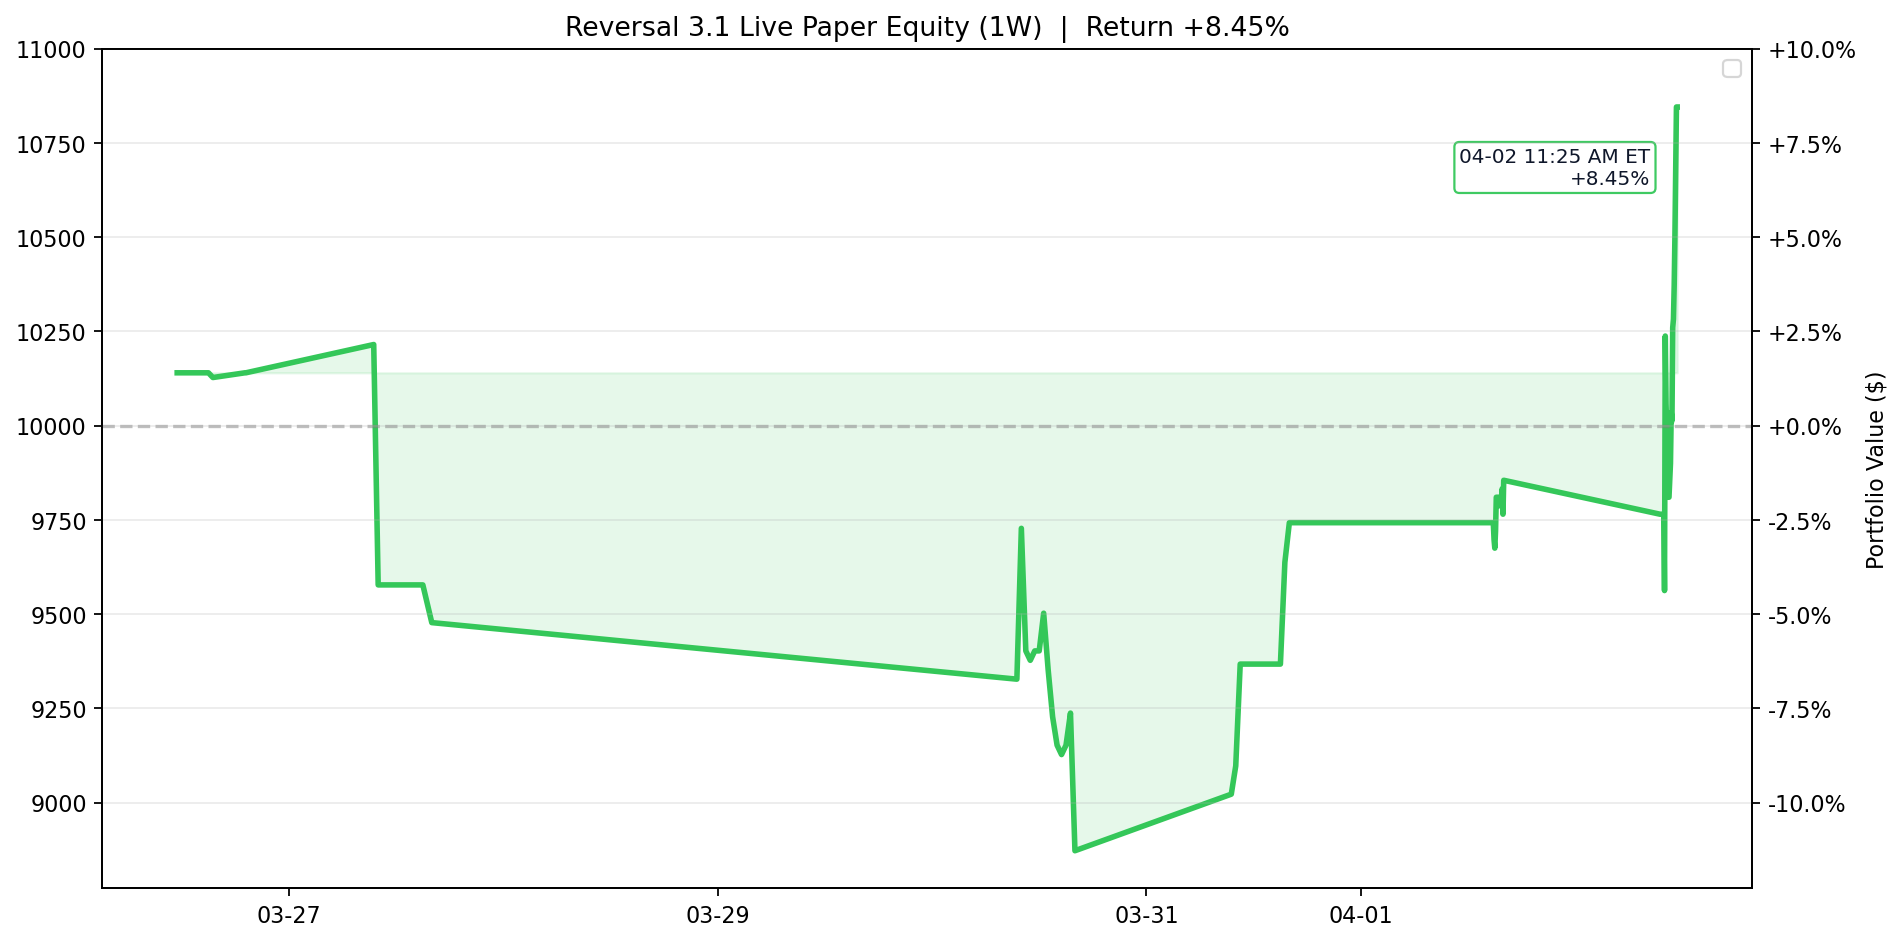
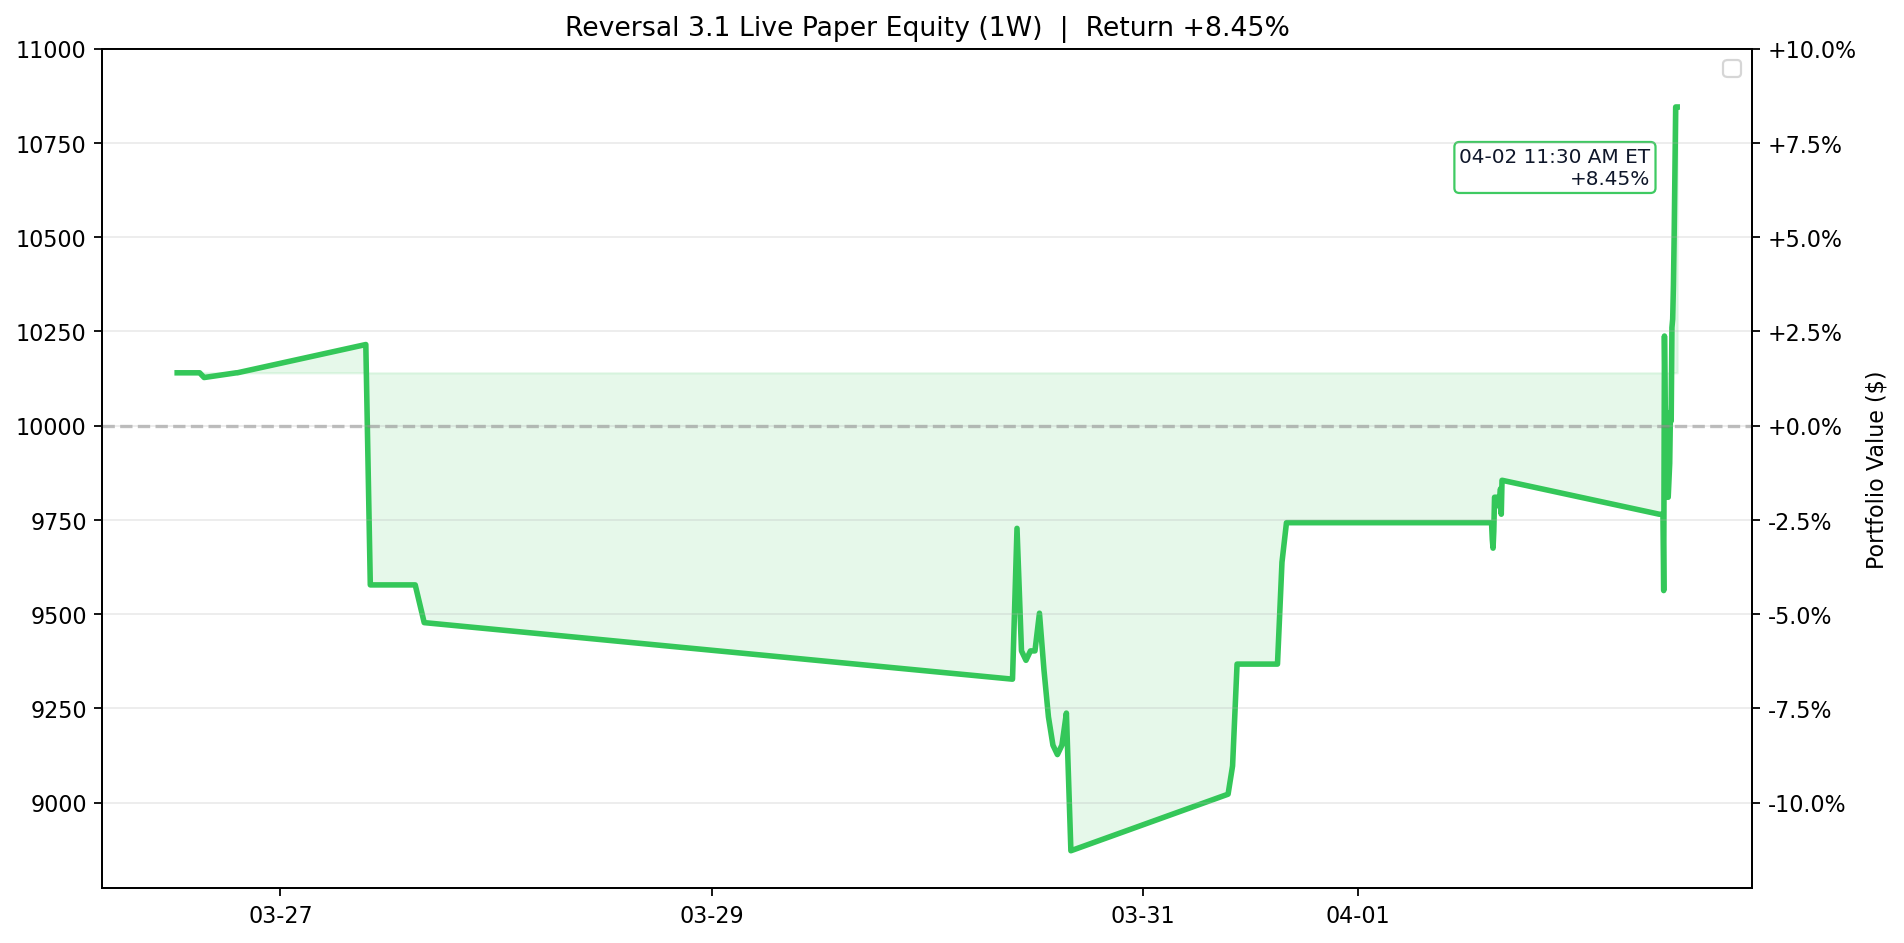
Update Reversal 3.1 live paper test 2026-04-02 11:30 ET

diff --git a/results/reversal_3_1_live/README.md b/results/reversal_3_1_live/README.md
@@ -1,6 +1,6 @@
 # Reversal 3.1 Live Paper Test
 
-Last updated (ET): `2026-04-02 11:25:05 EDT`
+Last updated (ET): `2026-04-02 11:30:05 EDT`
 Last processed slot: `manage_1130`
 
 ## Active Configuration
@@ -40,24 +40,25 @@ ticker     contract_symbol entry_trade_date_et exit_trade_date_et  entry_option_
 
 ```text
 ticker  success_rate_%  matched_signals  current_drop_%  target_rebound_$  target_price  rolling_sigma_20d_%  call_candidate
-   WDC           97.50               40            0.55              1.14        297.24                91.06            True
-  MPWR           91.67               36            0.88              6.92       1116.55                56.57            True
-  GILD           90.62               32            0.53              0.52        140.08                21.47            True
-  CDNS           89.74               39            1.06              2.09        279.30                26.25            True
-   MAR           89.74               39            0.55              1.30        332.90                28.45            True
-  KLAC           86.84               38            0.62              6.63       1517.00                56.48            True
-  MCHP           85.29               34            0.98              0.45         65.19                45.66            True
-  SOXL           85.29               34            0.80              0.29         52.13               138.72            True
-  VRTX           84.62               26            1.40              4.40        445.38                39.75            True
-  AMAT           84.38               32            1.15              2.85        352.58                59.65            True
- GOOGL           84.21               38            0.64              1.34        296.82                35.66            True
-  TMUS           84.00               25            0.78              1.12        203.77                22.53            True
+   WDC           97.44               39            0.76              1.59        297.05                91.06            True
+  MPWR           91.43               35            1.01              7.92       1116.11                56.57            True
+  CDNS           90.70               43            0.72              1.41        279.58                26.25            True
+  MCHP           85.71               35            0.86              0.39         65.21                45.66            True
+  AMAT           85.29               34            0.96              2.38        352.78                59.65            True
+  SOXL           85.29               34            0.94              0.34         52.11               138.72            True
+ GOOGL           84.62               39            0.53              1.11        296.91                35.66            True
+  VRTX           83.87               31            1.24              3.89        445.59                39.75            True
+   TXN           83.33               30            0.98              1.35        195.72                33.08            True
+  TMUS           83.33               30            0.57              0.81        203.90                22.53            True
+  ALNY           83.33               24            2.27              5.23        326.49                35.36            True
+   CSX           83.33               18            1.07              0.31         41.31                27.84            True
 ```
 
 ## Recent Events
 
 ```text
                     timestamp_et        slot   event_type                                                                                                                                     detail
+2026-04-02T11:30:05.918886-04:00 manage_1130 slot_skipped                                                                                                            {"reason": "already_processed"}
 2026-04-02T11:25:05.883603-04:00 manage_1130 slot_skipped                                                                                                            {"reason": "already_processed"}
 2026-04-02T11:20:05.893680-04:00 manage_1130         exit {"contract_symbol": "NFLX260508C00096000", "pnl": 1102.5, "reason": "take_profit_day1_hit_at_scan", "return_pct": 25.13, "ticker": "NFLX"}
 2026-04-02T11:10:05.886103-04:00 manage_1100 slot_skipped                                                                                                            {"reason": "already_processed"}
@@ -67,7 +68,6 @@ ticker  success_rate_%  matched_signals  current_drop_%  target_rebound_$  targe
 2026-04-02T10:40:05.872686-04:00 manage_1030 slot_skipped                                                                                                            {"reason": "already_processed"}
 2026-04-02T10:35:05.890056-04:00 manage_1030 slot_skipped                                                                                                            {"reason": "already_processed"}
 2026-04-02T10:30:05.885804-04:00 manage_1030 slot_skipped                                                                                                            {"reason": "already_processed"}
-2026-04-02T10:25:05.890764-04:00 manage_1030 slot_skipped                                                                                                            {"reason": "already_processed"}
 ```
 
 ## Equity Curve (1W)

diff --git a/README.md b/README.md
@@ -3,7 +3,7 @@
 <!-- reversal-3.1-live:start -->
 ## Reversal 3.1 Live Paper Test
 
-- Last updated (ET): `2026-04-02 11:25:05 EDT`
+- Last updated (ET): `2026-04-02 11:30:05 EDT`
 - Equity: `$10,845.00` | Realized: `$845.00` | Unrealized: `$0.00` | Open positions: `0`
 - Today closed trades: `1`
 - Current slot: `manage_1130`
